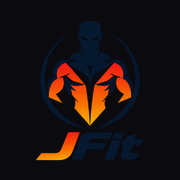
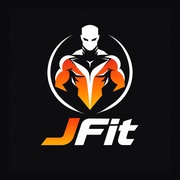
Add files via upload

Changed region(s): [[0.1944, 0.1111, 0.8056, 0.9167]]

diff --git a/app.js b/app.js
@@ -149,7 +149,7 @@ document.getElementById('root').innerHTML = `
 <div class="page-bg-full bg-auth-full visible" id="bg-auth" aria-hidden="true"></div>
 <div class="auth-wrap hidden" id="auth-page">
   <div class="auth-logo-wrap">
-    <img src="https://pnzydemsmqkzbaqsqrvn.supabase.co/storage/v1/object/public/app-assets/logo.png" class="auth-logo-img" alt="JFit logo">
+    <img src="https://pnzydemsmqkzbaqsqrvn.supabase.co/storage/v1/object/public/app-assets/logo-dark.png" class="auth-logo-img" alt="JFit logo">
     <div class="auth-logo-name">J<span>Fit</span></div>
     <div style="font-size:13px;color:rgba(255,255,255,0.45);margin-top:4px;position:relative">Your fitness journey starts here</div>
   </div>
@@ -231,6 +231,7 @@ document.getElementById('root').innerHTML = `
 <div class="page-bg-full bg-workout-full" id="bg-workout" aria-hidden="true"></div>
 <div class="page-bg-full bg-nutrition-full" id="bg-nutrition" aria-hidden="true"></div>
 <div class="page-bg-full bg-body-full" id="bg-body" aria-hidden="true"></div>
+<div class="page-bg-full bg-photos-full" id="bg-photos" aria-hidden="true"></div>
 <div class="page-scroll">
 
 <!-- DASHBOARD -->
@@ -307,7 +308,7 @@ document.getElementById('root').innerHTML = `
 
 <!-- PHOTOS -->
 <div class="page" id="page-photos">
-  <div class="ph" style="position:relative;z-index:2"><h1 style="color:white;font-size:24px;font-weight:700">Progress Photos</h1><p style="color:rgba(255,255,255,0.6);font-size:13px;margin-top:3px">Log weekly — compare your journey</p></div>
+  <div class="ph" style="position:relative;z-index:2;padding-top:calc(var(--safe-t) + 20px)"><h1 style="color:white;font-size:24px;font-weight:700;text-shadow:0 2px 8px rgba(0,0,0,0.6)">Progress Photos</h1><p style="color:rgba(255,255,255,0.6);font-size:13px;margin-top:3px">Log weekly — compare your journey</p></div>
   <div class="gc wk-sel" style="margin:0 16px 16px">
     <button class="wk-nav" onclick="chgPhotoWk(-1)">‹</button>
     <div style="font-size:15px;font-weight:600" id="ph-wk-lbl">This week</div>
@@ -701,10 +702,21 @@ function renderDash(){
 
 // ─── WORKOUT ──────────────────────────────────────────────────
 function renderWorkout(){
+  const activeId=localStorage.getItem('jfit_active_program')||'ppl-elite';
+  const activeProg=ALL_PROGRAMS.find(p=>p.id===activeId)||ALL_PROGRAMS[0];
+  renderWorkoutForProgram(activeProg);
+}
+
+function renderWorkoutForProgram(prog){
   q('wk-date').textContent=new Date().toLocaleDateString('en-AU',{weekday:'long',day:'numeric',month:'short'});
   const loggedToday=new Set(wkLogs.filter(l=>l.logged_at===TODAY).map(l=>l.exercise_name));
   const c=q('wk-list');c.innerHTML='';
-  PPL.days.forEach((day,di)=>{
+  // Show active program name
+  const progHeader=document.createElement('div');
+  progHeader.style.cssText='padding:0 16px 10px;font-size:12px;color:var(--text2);display:flex;align-items:center;gap:8px;position:relative;z-index:2';
+  progHeader.innerHTML=`<span style="font-size:16px">${prog.icon}</span><span style="font-weight:600;color:var(--text)">${prog.name}</span>`;
+  c.appendChild(progHeader);
+  prog.days.forEach((day,di)=>{
     const card=document.createElement('div');card.className='gc day-card';
     card.innerHTML=`
       <div class="day-hdr" onclick="togDay(${di})">
@@ -736,7 +748,9 @@ function togDay(i){openDays[i]=!openDays[i];q('db-'+i).classList.toggle('open',o
 
 // ─── LOG MODAL ────────────────────────────────────────────────
 function openLog(di,nm){
-  const day=PPL.days[di],ex=day.exercises.find(e=>e.name===nm);if(!ex)return;
+  const activeId=localStorage.getItem('jfit_active_program')||'ppl-elite';
+  const activeProg=ALL_PROGRAMS.find(p=>p.id===activeId)||ALL_PROGRAMS[0];
+  const day=activeProg.days[di],ex=day?.exercises.find(e=>e.name===nm);if(!ex)return;
   curDayIdx=di;curExName=nm;curExSets=ex.sets;
   q('lm-name').textContent=nm;q('lm-meta').textContent=`${ex.sets} sets · ${ex.reps}`;
   const prev=wkLogs.find(l=>l.exercise_name===nm),ps=prev?.sets||[];
@@ -1103,9 +1117,33 @@ async function logMeas(){
 // ─── PROGRAMS ─────────────────────────────────────────────────
 async function renderProgs(){
   const {data}=await sb.from('programs').select('*').eq('user_id',CU.id);allProgs=data||[];
+  const activeId=localStorage.getItem('jfit_active_program')||'ppl-elite';
   q('prog-list').innerHTML=`
-    <div class="gc prog-card"><div class="prog-icon" style="background:var(--accent-bg)">🏋</div><div class="prog-info"><div class="prog-nm">JFit PPL (5-Day)</div><div class="prog-sb">Push · Pull · Legs · Push+Abs · Pull+Legs</div></div><div class="prog-badge">Active</div></div>
-    ${allProgs.map(p=>`<div class="gc prog-card"><div class="prog-icon" style="background:var(--blue-bg)">📋</div><div class="prog-info"><div class="prog-nm">${p.name}</div><div class="prog-sb">Custom program</div></div></div>`).join('')}`;
+    ${ALL_PROGRAMS.map(p=>`
+      <div class="gc prog-card" onclick="setActiveProgram('${p.id}')">
+        <div class="prog-icon" style="background:${p.color_bg};font-size:22px">${p.icon}</div>
+        <div class="prog-info">
+          <div class="prog-nm">${p.name}</div>
+          <div class="prog-sb">${p.subtitle}</div>
+          <div style="margin-top:4px">
+            <span style="font-size:10px;font-weight:600;padding:2px 8px;border-radius:99px;background:${p.color_bg};color:${p.color}">${p.level}</span>
+            <span style="font-size:10px;color:var(--muted);margin-left:6px">${p.days_per_week} days/week</span>
+          </div>
+        </div>
+        ${activeId===p.id?'<div class="prog-badge">Active</div>':''}
+      </div>`).join('')}
+    ${allProgs.length?`<div style="margin:16px 0 8px;font-size:12px;font-weight:700;color:var(--text2);text-transform:uppercase;letter-spacing:0.05em">Custom Programs</div>`:''}
+    ${allProgs.map(p=>`<div class="gc prog-card"><div class="prog-icon" style="background:var(--blue-bg)">📋</div><div class="prog-info"><div class="prog-nm">${p.name}</div><div class="prog-sb">Custom program</div></div></div>`).join('')}
+  `;
+}
+
+function setActiveProgram(id){
+  localStorage.setItem('jfit_active_program',id);
+  renderProgs();
+  // Update workout page with new program
+  const prog=ALL_PROGRAMS.find(p=>p.id===id);
+  if(prog) renderWorkoutForProgram(prog);
+  toast('Program switched! 💪');
 }
 function goToPrograms(){toggleMenu();goPage('programs',null);}
 function openCreateProg(){progDayCount=0;q('prog-nm-inp').value='';q('prog-days-cont').innerHTML='';addProgDay();q('create-prog').classList.add('open');}
@@ -1154,7 +1192,7 @@ function goPage(id,btn){
   if(btn)btn.classList.add('active');
   document.querySelector('.page-scroll')?.scrollTo(0,0);
   // Switch background image
-  const bgMap={dashboard:'bg-dashboard',workout:'bg-workout',nutrition:'bg-nutrition',body:'bg-body'};
+  const bgMap={dashboard:'bg-dashboard',workout:'bg-workout',nutrition:'bg-nutrition',body:'bg-body',photos:'bg-photos'};
   document.querySelectorAll('.page-bg-full').forEach(b=>{
     if(b.id!=='bg-auth') b.classList.remove('visible');
   });
